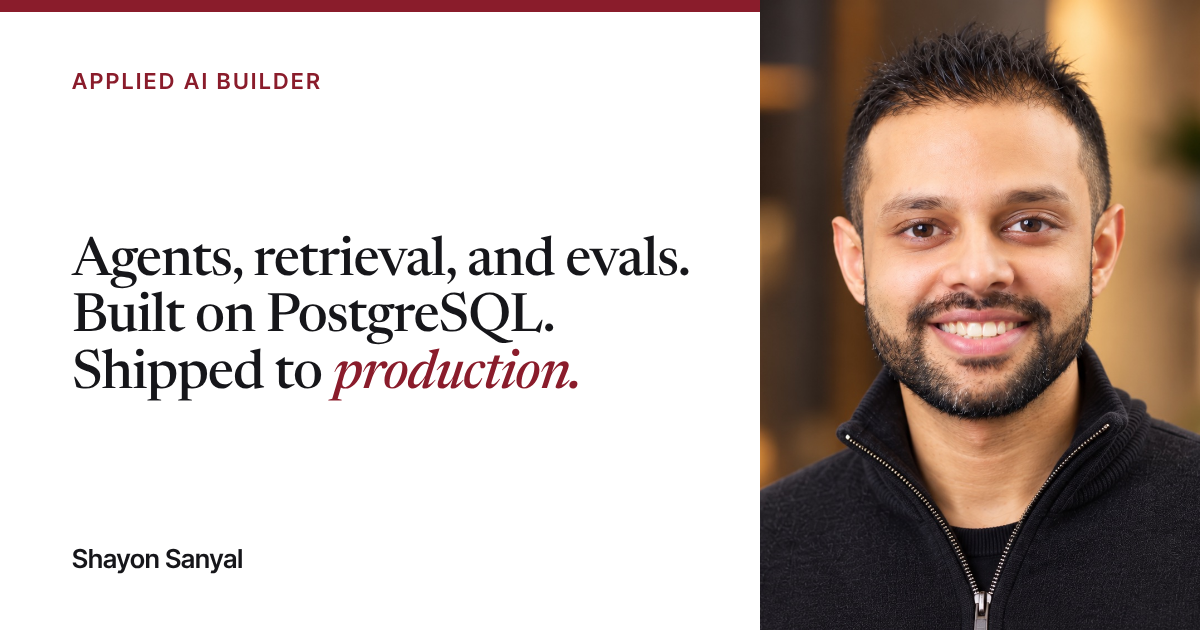
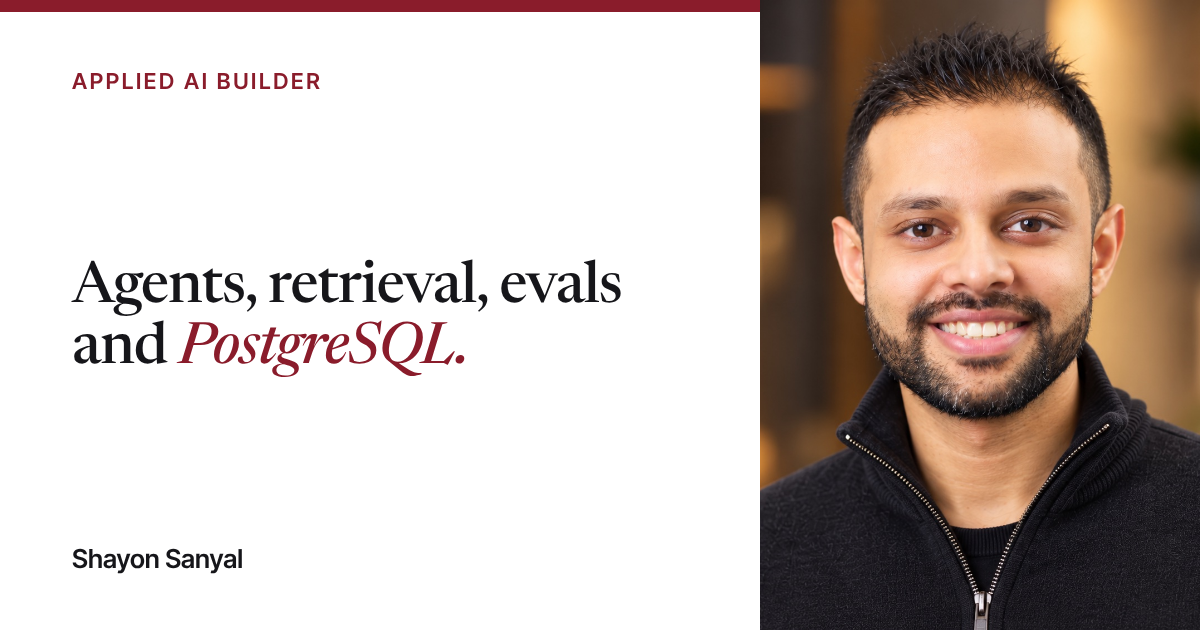
Update hero headline and intro
Headline: Agents, retrieval, evals and PostgreSQL. Intro now names the three
systems directly. Share card, meta description, og alt text, and tests match.

Claude-Session: https://claude.ai/code/session_01WPpvXjdWe6Kg4pWNzFitah

Changed region(s): [[0.0617, 0.3619, 0.5858, 0.6333]]

diff --git a/scripts/og-card.html b/scripts/og-card.html
@@ -52,7 +52,7 @@
       }
       h1 {
         margin: 0;
-        font-size: 54px;
+        font-size: 58px;
         font-weight: 500;
         line-height: 1.04;
         letter-spacing: -0.02em;
@@ -78,10 +78,7 @@
     <div class="card">
       <div class="text">
         <div class="label">Applied AI builder</div>
-        <h1>
-          Agents, retrieval, and evals.<br />Built on PostgreSQL.<br />Shipped to
-          <em>production.</em>
-        </h1>
+        <h1>Agents, retrieval, evals<br />and <em>PostgreSQL.</em></h1>
         <div class="name">Shayon Sanyal</div>
       </div>
       <img src="../src/assets/portrait.jpg" alt="" />

diff --git a/tests/theme.spec.ts b/tests/theme.spec.ts
@@ -123,9 +123,7 @@ test("dark mode remains automatic without JavaScript", async ({ browser }) => {
     await page.goto("http://localhost:4321/");
     expect(await background(page)).toBe(DARK);
     await expect(page.getByRole("group", { name: "Color theme" })).toBeHidden();
-    await expect(page.locator("h1")).toHaveText(
-      "Agents, retrieval, and evals. Built on PostgreSQL. Shipped to production.",
-    );
+    await expect(page.locator("h1")).toHaveText("Agents, retrieval, evals and PostgreSQL.");
     await page.getByRole("link", { name: "Talks", exact: true }).click();
     expect(await background(page)).toBe(DARK);
   } finally {

diff --git a/tests/home.spec.ts b/tests/home.spec.ts
@@ -10,9 +10,7 @@ test.describe("home hero", () => {
   test("has the title, a single h1, and the hero copy", async ({ page }) => {
     await expect(page).toHaveTitle("Shayon Sanyal | PostgreSQL, Data & AI");
     await expect(page.locator("h1")).toHaveCount(1);
-    await expect(page.locator("h1")).toHaveText(
-      "Agents, retrieval, and evals. Built on PostgreSQL. Shipped to production.",
-    );
+    await expect(page.locator("h1")).toHaveText("Agents, retrieval, evals and PostgreSQL.");
     await expect(page.getByText("Applied AI builder in New York")).toBeVisible();
   });
 

diff --git a/src/lib/site.ts b/src/lib/site.ts
@@ -3,7 +3,7 @@ export const SITE = {
   url: "https://shayons.github.io",
   title: "Shayon Sanyal | PostgreSQL, Data & AI",
   description:
-    "The portfolio of Shayon Sanyal, an applied AI builder in New York. Agents, retrieval, and evals built on PostgreSQL and shipped to production.",
+    "The portfolio of Shayon Sanyal, an applied AI builder in New York. Agents, retrieval, evals and PostgreSQL, built for production.",
   role: "Principal Solutions Architect, Amazon Web Services",
   ogImage: "/og.png",
 } as const;
